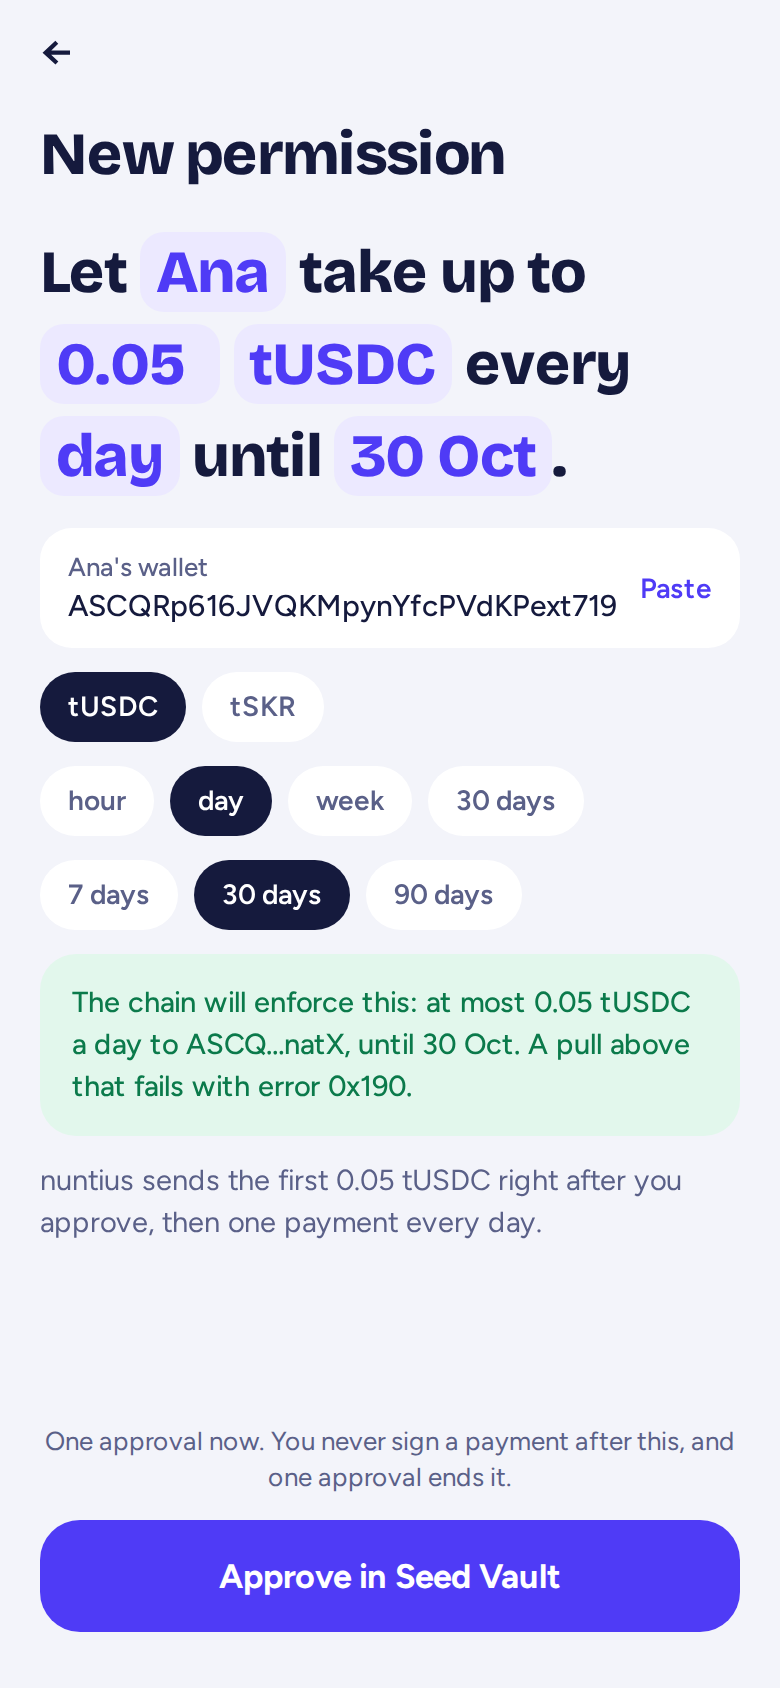
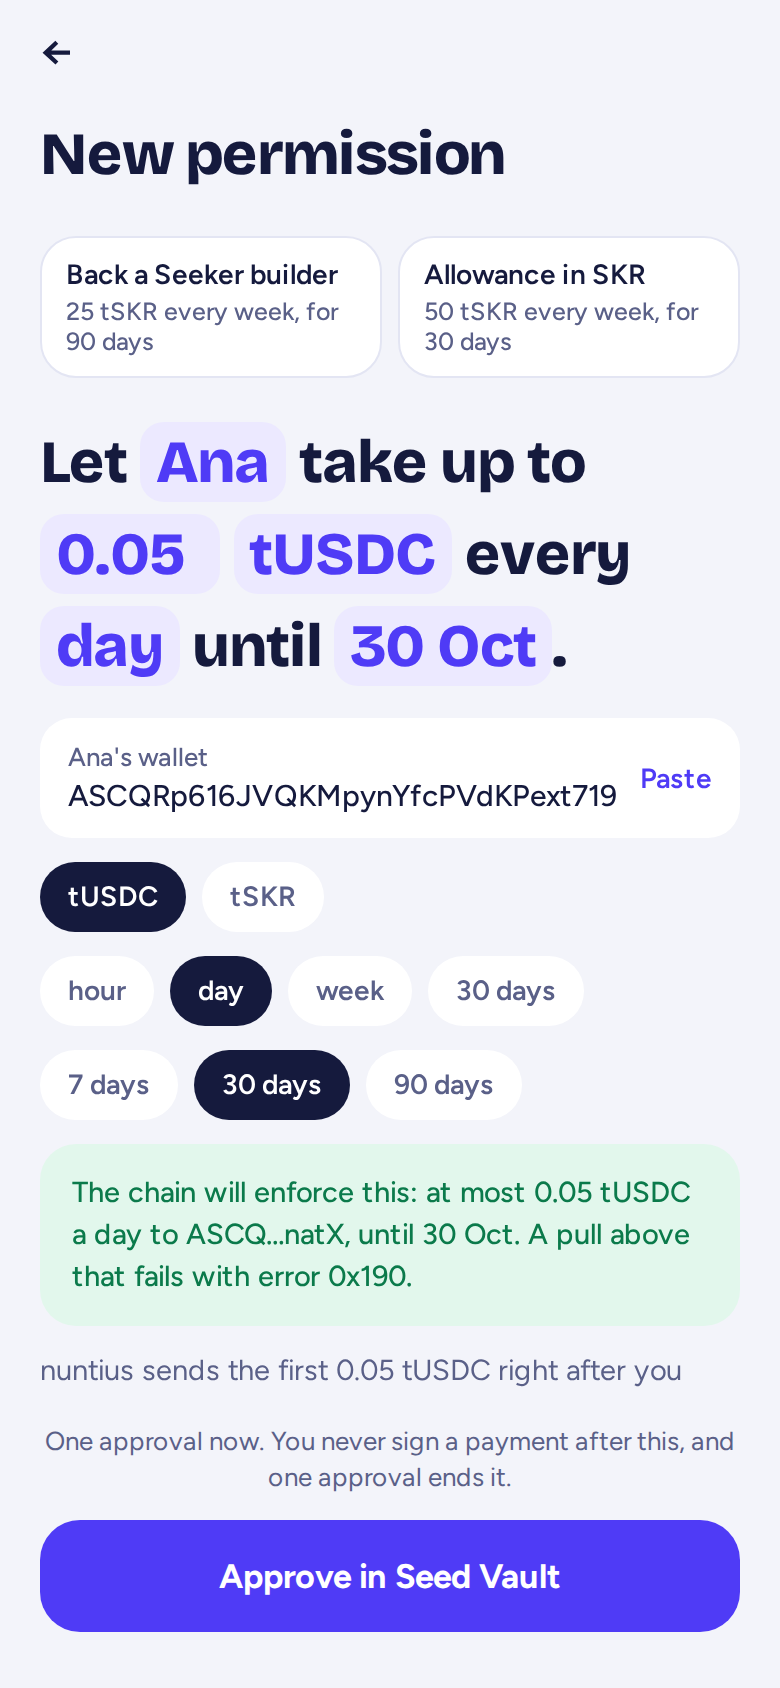
feat(app,server): two one-tap SKR starters on New permission; SKR ceiling 55
- When the server offers SKR, New permission shows two starters above the
  sentence: "Back a Seeker builder" (25 SKR every week for 90 days) and
  "Allowance in SKR" (50 SKR every week for 30 days). A tap fills the
  sentence; the payee is never prefilled, so Approve stays off until it
  is entered. Nothing else on the screen changes.
- View model in core/mandate-form.ts (startersFor, applyStarter,
  isStarter) with a test: none without SKR, everything but the payee
  filled, a typed payee survives a second tap, both amounts under 55.
- Default SKR ceiling 100 -> 55: about 1 USD at 0.0181 USD per SKR, read
  30 Sep 2026. The preview server's tSKR ceiling follows.
- Web render: no starters with USDC only; a tap fills "Seeker builder,
  25, tSKR, week, 29 Dec"; the server previews 25 and 50 tSKR a week.
  New 02b screenshot and side-by-side with the mockup; 02 re-rendered.

diff --git a/app/new.tsx b/app/new.tsx
@@ -8,9 +8,12 @@ import { isUserCancellation, useNuntiusAuth } from '@/features/account/use-nunti
 import { useGrantMandate, type GrantStep } from '@/features/mandates/use-mandates'
 import { api, type MandateText } from '@/features/mandates/mandates-api'
 import {
+  applyStarter,
   checkForm,
+  isStarter,
   PERIOD_OPTIONS,
   sanitizeAmount,
+  startersFor,
   UNTIL_OPTIONS,
   type MandateForm,
   type PeriodKey,
@@ -41,6 +44,8 @@ export default function NewPermissionScreen() {
   const check = checkForm(form, auth?.address ?? null)
   const set = <K extends keyof MandateForm>(k: K, v: MandateForm[K]) => setForm((f) => ({ ...f, [k]: v }))
   const amountRef = useRef<TextInput>(null)
+  // One-tap SKR starters; empty unless the server offers SKR.
+  const starters = startersFor(mints)
 
   useEffect(() => {
     if (!auth || !check.ok) {
@@ -100,6 +105,30 @@ export default function NewPermissionScreen() {
   return (
     <Screen back footer={footer}>
       <Title style={{ marginTop: 6 }}>New permission</Title>
+
+      {starters.length > 0 ? (
+        <View style={s.starters} accessibilityLabel="SKR starters">
+          {starters.map(({ starter, symbol: sym, line }) => {
+            const on = isStarter(form, sym, symbol, starter)
+            return (
+              <Pressable
+                key={starter.key}
+                testID={`starter-${starter.key}`}
+                accessibilityRole="button"
+                accessibilityState={{ selected: on }}
+                onPress={() => {
+                  setForm((f) => applyStarter(f, starter))
+                  setSymbol(sym)
+                }}
+                style={[s.starter, on ? s.starterOn : null]}
+              >
+                <Text style={s.starterTitle}>{starter.title}</Text>
+                <Text style={s.starterLine}>{line}</Text>
+              </Pressable>
+            )
+          })}
+        </View>
+      ) : null}
 
       <View style={s.sentence} accessibilityLabel="Permission sentence">
         <Text style={s.word}>Let </Text>
@@ -235,6 +264,20 @@ function slotWidth(text: string): number {
 const SENT = { fontFamily: font.display, fontSize: 30, lineHeight: 40, letterSpacing: -0.5 }
 
 const s = StyleSheet.create({
+  starters: { flexDirection: 'row', gap: 8, marginTop: 12 },
+  starter: {
+    flex: 1,
+    backgroundColor: color.card,
+    borderRadius: radius.panel,
+    borderWidth: 1.5,
+    borderColor: color.line,
+    paddingVertical: 10,
+    paddingHorizontal: 12,
+    gap: 2,
+  },
+  starterOn: { borderColor: color.signal, backgroundColor: color.signal50 },
+  starterTitle: { fontFamily: font.semibold, fontSize: 14, color: color.ink },
+  starterLine: { fontFamily: font.medium, fontSize: 12.5, color: color.ink2 },
   sentence: { flexDirection: 'row', flexWrap: 'wrap', alignItems: 'center', rowGap: 6, marginTop: 10, marginBottom: 4 },
   word: { ...SENT, color: color.ink },
   slot: { backgroundColor: color.signal50, borderRadius: radius.slot, paddingHorizontal: 8 },

diff --git a/core/mandate-form.ts b/core/mandate-form.ts
@@ -51,3 +51,65 @@ export function sanitizeAmount(raw: string): string {
   const [whole, ...rest] = cleaned.split('.')
   return rest.length ? `${whole}.${rest.join('').slice(0, 6)}` : (whole ?? '')
 }
+
+/**
+ * One-tap SKR starters on New permission. A starter fills the sentence (name,
+ * amount, token, period, duration); the payee is never prefilled, so it is
+ * always typed or pasted by hand. Both amounts sit under the SKR beta ceiling
+ * of 55 SKR per period (server/src/mandate-config.ts).
+ */
+export interface Starter {
+  key: 'builder' | 'allowance'
+  title: string
+  label: string
+  amount: string
+  period: PeriodKey
+  untilDays: number
+}
+
+export const SKR_STARTERS: readonly Starter[] = [
+  {
+    key: 'builder',
+    title: 'Back a Seeker builder',
+    label: 'Seeker builder',
+    amount: '25',
+    period: 'week',
+    untilDays: 90,
+  },
+  { key: 'allowance', title: 'Allowance in SKR', label: 'Allowance', amount: '50', period: 'week', untilDays: 30 },
+]
+
+/**
+ * The server's SKR symbol, or null when it does not offer SKR. `tSKR` is the
+ * localnet test mint that stands in for SKR in the preview server.
+ */
+export function skrSymbol(mints: readonly string[]): string | null {
+  return mints.find((m) => m === 'SKR' || m === 'tSKR') ?? null
+}
+
+/** The starters to show: none unless the server offers SKR. */
+export function startersFor(mints: readonly string[]): { starter: Starter; symbol: string; line: string }[] {
+  const symbol = skrSymbol(mints)
+  if (!symbol) return []
+  return SKR_STARTERS.map((starter) => ({
+    starter,
+    symbol,
+    line: `${starter.amount} ${symbol} every ${starter.period}, for ${starter.untilDays} days`,
+  }))
+}
+
+/** The form after a starter tap: everything but the payee comes from the starter. */
+export function applyStarter(f: MandateForm, s: Starter): MandateForm {
+  return { label: s.label, payee: f.payee, amount: s.amount, period: s.period, untilDays: s.untilDays }
+}
+
+/** True while the form still says exactly what the starter filled in. */
+export function isStarter(f: MandateForm, symbol: string, current: string, s: Starter): boolean {
+  return (
+    symbol === current &&
+    f.label === s.label &&
+    f.amount === s.amount &&
+    f.period === s.period &&
+    f.untilDays === s.untilDays
+  )
+}

diff --git a/core/core.test.ts b/core/core.test.ts
@@ -17,7 +17,7 @@ import {
   whenWords,
   windowWords,
 } from './home-model.ts'
-import { checkForm, sanitizeAmount } from './mandate-form.ts'
+import { applyStarter, checkForm, isStarter, sanitizeAmount, SKR_STARTERS, startersFor } from './mandate-form.ts'
 
 const NOW = Date.UTC(2026, 9, 1, 12)
 const nowS = NOW / 1000
@@ -147,4 +147,35 @@ test('mandate form checks', () => {
   assert.equal(sanitizeAmount('1.2.3'), '1.23')
   assert.equal(sanitizeAmount('$12a'), '12')
   assert.equal(sanitizeAmount('0.12345678'), '0.123456')
+})
+
+test('SKR starters: only when SKR is offered; they fill the sentence, never the payee', () => {
+  assert.deepEqual(startersFor(['USDC']), [], 'no SKR, no starters')
+  assert.deepEqual(startersFor([]), [])
+  const s = startersFor(['USDC', 'SKR'])
+  assert.deepEqual(
+    s.map((x) => [x.starter.title, x.symbol, x.line]),
+    [
+      ['Back a Seeker builder', 'SKR', '25 SKR every week, for 90 days'],
+      ['Allowance in SKR', 'SKR', '50 SKR every week, for 30 days'],
+    ],
+  )
+  assert.equal(startersFor(['tUSDC', 'tSKR'])[0]!.symbol, 'tSKR', 'the localnet stand-in')
+  for (const { starter } of s) {
+    assert.ok(Number(starter.amount) <= 55, `${starter.key} fits the 55 SKR ceiling`)
+    assert.doesNotMatch(`${starter.title} ${starter.label}`, /·|→|mandate/i)
+  }
+
+  const empty = { label: '', payee: '', amount: '', period: 'day' as const, untilDays: 30 }
+  const builder = applyStarter(empty, SKR_STARTERS[0]!)
+  assert.deepEqual(builder, { label: 'Seeker builder', payee: '', amount: '25', period: 'week', untilDays: 90 })
+  assert.equal(checkForm(builder, null).field, 'payee', 'the payee is still to be entered')
+  const payee = 'ASCQRp616JVQKMpynYfcPVdKPext719WUf7CuFcnnatX'
+  const allowance = applyStarter({ ...builder, payee }, SKR_STARTERS[1]!)
+  assert.equal(allowance.payee, payee, 'a typed payee survives a starter tap')
+  assert.deepEqual([allowance.amount, allowance.period, allowance.untilDays], ['50', 'week', 30])
+  assert.ok(checkForm(allowance, null).ok)
+  assert.ok(isStarter(allowance, 'SKR', 'SKR', SKR_STARTERS[1]!))
+  assert.ok(!isStarter(allowance, 'SKR', 'USDC', SKR_STARTERS[1]!), 'token changed')
+  assert.ok(!isStarter({ ...allowance, amount: '49' }, 'SKR', 'SKR', SKR_STARTERS[1]!), 'amount edited')
 })

diff --git a/server/src/mandate-config.ts b/server/src/mandate-config.ts
@@ -5,7 +5,7 @@
  * - MANDATE_CLUSTER       'mainnet' | 'localnet'. Absent = mandates disabled.
  * - MANDATE_RPC           RPC URL. Mainnet falls back to HELIUS_RPC; localnet must be loopback.
  * - MANDATE_MINTS         SYMBOL:mint:decimals[:maxPerPeriod][,…] the app offers.
- *                         Mainnet default: USDC and SKR (SKR ceiling 100).
+ *                         Mainnet default: USDC and SKR (SKR ceiling 55).
  * - MANDATE_MAX_PER_PERIOD  beta ceiling for mints without their own, in UI units
  *                         (default 100). A second, server-side bound on top of the chain's.
  * - MANDATE_DELEGATEE     path to the executor keypair file (never committed).
@@ -37,8 +37,8 @@ export const SKR_MAINNET: MintInfo = {
   symbol: 'SKR',
   mint: 'SKRbvo6Gf7GondiT3BbTfuRDPqLWei4j2Qy2NPGZhW3',
   decimals: 6,
-  // Placeholder ceiling; re-set to about 1 USD of SKR at deploy time (STATUS.md).
-  maxPerPeriodUi: '100',
+  // About 1 USD of SKR at 0.0181 USD per SKR (read 30 Sep 2026): 55 x 0.0181 = 0.9955.
+  maxPerPeriodUi: '55',
 }
 const ADDRESS_RE = /^[1-9A-HJ-NP-Za-km-z]{32,44}$/
 

diff --git a/server/src/tools/preview-server.ts b/server/src/tools/preview-server.ts
@@ -64,7 +64,7 @@ const cfg = {
   rpcUrl: LOCALNET_RPC,
   mints: [
     { symbol: 'tUSDC', mint, decimals: 6, maxPerPeriodUi: '1' },
-    { symbol: 'tSKR', mint: skrMint, decimals: 6, maxPerPeriodUi: '100' },
+    { symbol: 'tSKR', mint: skrMint, decimals: 6, maxPerPeriodUi: '55' },
   ],
   maxPerPeriodUi: '100',
   delegateePath: null,

diff --git a/server/src/units.test.ts b/server/src/units.test.ts
@@ -241,6 +241,6 @@ test('MANDATE_MINTS: optional per-mint ceiling; mainnet offers USDC and SKR by d
     ['USDC', 'SKR'],
   )
   assert.equal(cfg.mints[1]!.mint, S)
-  assert.equal(SKR_MAINNET.maxPerPeriodUi, '100')
+  assert.equal(SKR_MAINNET.maxPerPeriodUi, '55', 'about 1 USD of SKR')
   assert.equal(SKR_MAINNET.decimals, 6)
 })
